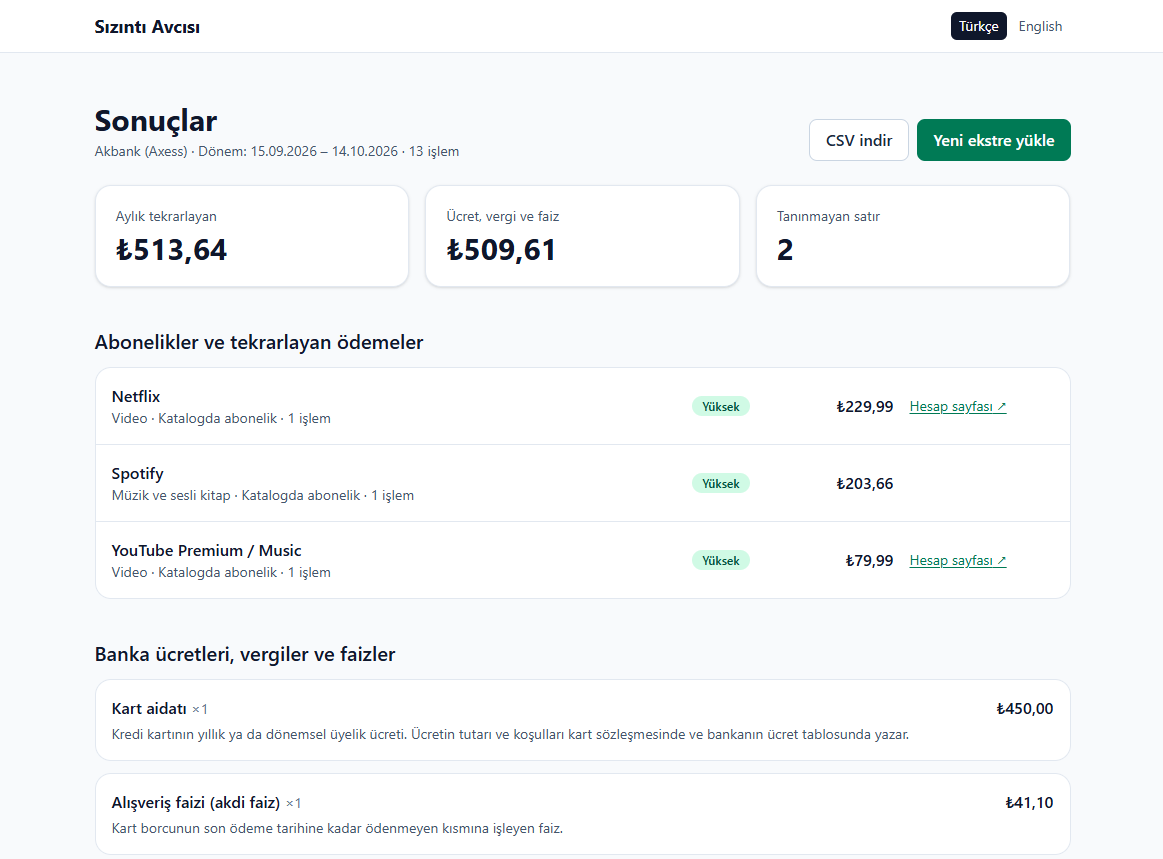
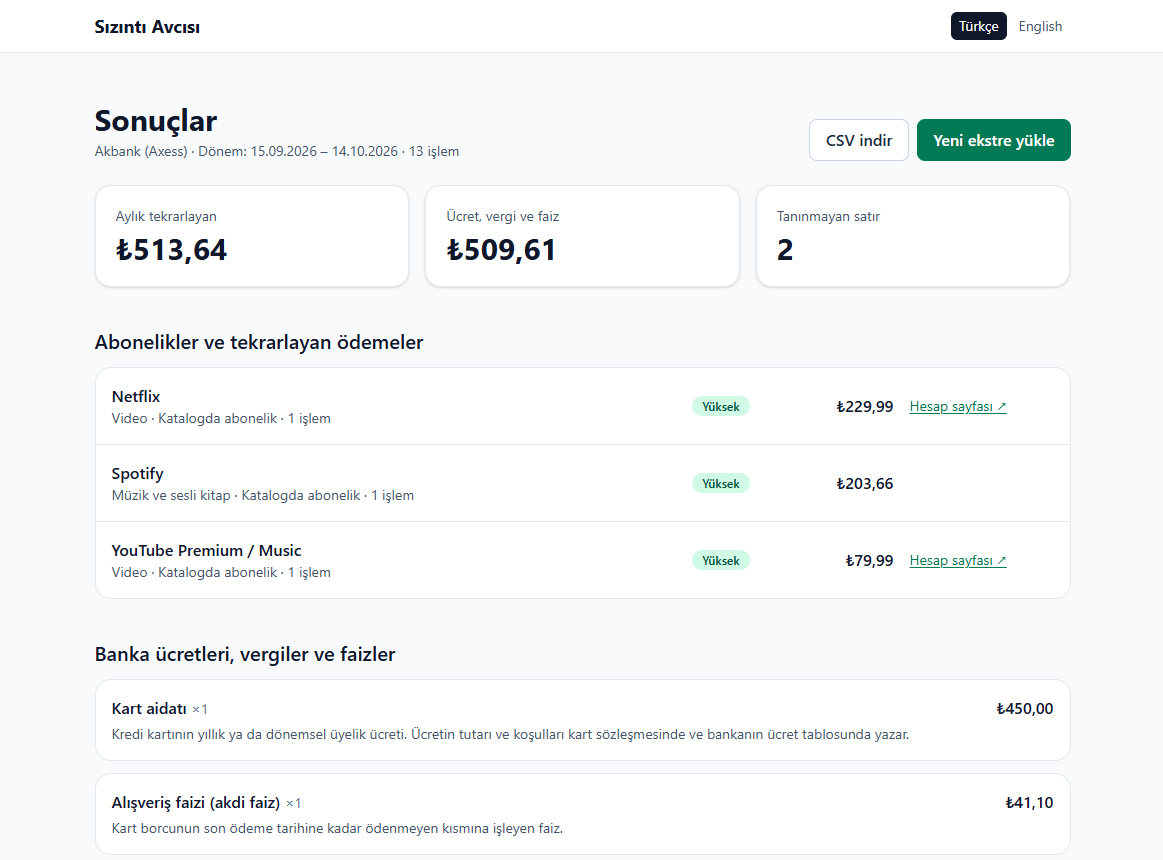
fix: mobilde tutarlar sağa hizalı, abonelikte tutar ismin yanında (#17)
Mobil sonuç ekranında abonelik satırının tutarı ayrı satıra düşüp
ortada duruyordu. Mobilde tutar artık ismin yanında, sağda; güven
rozeti ve iptal bağlantısı alt satıra iniyor. Masaüstü düzeni aynı.
Ücret, taksit ve işlem listelerinde de tutar sarıldığında sağda kalır.

Ekran görüntüleri (sentetik veri) yenilendi. ILERLEME.md'ye
hashVersion 1'de kalma kararı not edildi.

Claude-Session: https://claude.ai/code/session_01AefwdaLJi6Rwcb7F36nxkN

diff --git a/src/ui/Results.tsx b/src/ui/Results.tsx
@@ -45,23 +45,26 @@ function ChargeList({ charges, m }: { charges: RecurringCharge[]; m: Messages })
     <ul className="divide-y divide-slate-200 overflow-hidden rounded-2xl border border-slate-200 bg-white">
       {charges.map((c) => (
         <li key={`${c.merchant?.id ?? c.label}`} className="flex flex-wrap items-center gap-x-4 gap-y-2 p-4">
-          <div className="min-w-0 flex-1 basis-56">
+          <div className="min-w-0 flex-1 basis-40 sm:basis-56">
             <p className="font-medium text-slate-900">{c.label}</p>
             <p className="text-sm text-slate-600">
               {m.category[c.merchant?.category ?? "unknown"]} · {m.reason[c.reason]} ·{" "}
               {format(s.count, { count: c.occurrences.length })}
             </p>
           </div>
-          <span className={`rounded-full px-2.5 py-0.5 text-xs font-medium ${CONFIDENCE_STYLE[c.confidence]}`}>
+          {/* Mobilde satır kırıcı: rozet ve iptal bağlantısı ismin ve tutarın altına iner. */}
+          <span aria-hidden="true" className="order-1 -my-1 h-0 basis-full sm:hidden" />
+          <span className={`order-2 rounded-full px-2.5 py-0.5 text-xs font-medium sm:order-none ${CONFIDENCE_STYLE[c.confidence]}`}>
             <span className="sr-only">{s.confidence}: </span>
             {m.confidence[c.confidence]}
           </span>
-          <p className="w-32 text-right font-semibold tabular-nums text-slate-900">
+          <p className="ml-auto whitespace-nowrap text-right font-semibold tabular-nums text-slate-900 sm:w-32">
             <span className="sr-only">{s.monthly}: </span>
             {formatMoney(c.monthlyEstimate, m)}
           </p>
-          {/* Sabit genişlik: iptal bağlantısı olmayan satırlarda da rozet ve tutar hizalı kalır. */}
-          <div className="w-full text-sm sm:w-36">
+          {/* Masaüstünde sabit genişlik: iptal bağlantısı olmayan satırlarda da rozet ve tutar hizalı kalır.
+              Mobilde rozet ve bağlantı alt satıra iner, tutar ismin yanında sağda kalır. */}
+          <div className="order-3 min-w-0 flex-1 text-sm sm:order-none sm:w-36 sm:flex-none">
             {c.merchant?.cancelUrl ? (
               <a
                 href={c.merchant.cancelUrl}
@@ -88,7 +91,7 @@ function TransactionList({ items, m }: { items: Transaction[]; m: Messages }) {
         <li key={i} className="flex flex-wrap items-baseline gap-x-4 gap-y-1 px-4 py-2.5">
           <span className="w-24 shrink-0 tabular-nums text-slate-500">{formatDate(t.date, m)}</span>
           <span className="min-w-0 flex-1 break-words text-slate-800">{t.rawDescription}</span>
-          <span className="tabular-nums font-medium text-slate-900">{formatMoney(t.amount, m)}</span>
+          <span className="ml-auto whitespace-nowrap text-right tabular-nums font-medium text-slate-900">{formatMoney(t.amount, m)}</span>
         </li>
       ))}
     </ul>
@@ -165,10 +168,10 @@ export function Results({ report, onReset, onDownloadCsv }: Props) {
             {a.fees.map((g) => (
               <li key={g.rule?.id ?? g.kind} className="rounded-2xl border border-slate-200 bg-white p-4">
                 <div className="flex flex-wrap items-baseline justify-between gap-2">
-                  <p className="font-medium text-slate-900">
+                  <p className="min-w-0 flex-1 font-medium text-slate-900">
                     {feeLabel(g, m)} <span className="text-sm font-normal text-slate-500">×{g.transactions.length}</span>
                   </p>
-                  <p className="font-semibold tabular-nums text-slate-900">{formatMoney(g.total, m)}</p>
+                  <p className="ml-auto whitespace-nowrap text-right font-semibold tabular-nums text-slate-900">{formatMoney(g.total, m)}</p>
                 </div>
                 {g.rule && <p className="mt-1 text-sm text-slate-600">{g.rule.explanation}</p>}
               </li>
@@ -184,7 +187,7 @@ export function Results({ report, onReset, onDownloadCsv }: Props) {
           <ul className="divide-y divide-slate-200 overflow-hidden rounded-2xl border border-slate-200 bg-white">
             {a.installments.map((it, i) => (
               <li key={i} className="flex flex-wrap items-baseline justify-between gap-2 p-4">
-                <div className="min-w-0">
+                <div className="min-w-0 flex-1">
                   <p className="font-medium text-slate-900">{it.transaction.normalized}</p>
                   <p className="text-sm text-slate-600">
                     {format(r.installments.progress, {
@@ -198,7 +201,7 @@ export function Results({ report, onReset, onDownloadCsv }: Props) {
                     })}
                   </p>
                 </div>
-                <p className="font-semibold tabular-nums text-slate-900">{formatMoney(it.transaction.amount, m)}</p>
+                <p className="ml-auto whitespace-nowrap text-right font-semibold tabular-nums text-slate-900">{formatMoney(it.transaction.amount, m)}</p>
               </li>
             ))}
           </ul>

diff --git a/docs/ILERLEME.md b/docs/ILERLEME.md
@@ -38,6 +38,10 @@
 9. ~~Lisansı seç (öneri: MIT).~~ ✅ MIT seçildi, `LICENSE` eklendi.
 10. ~~Sentetik veriyle ekran görüntüsü al (README'lerdeki yer tutucu için).~~ ✅ `docs/images/` (masaüstü karşılama, masaüstü ve mobil sonuç).
 
+## Kararlar
+
+- Glif hash'i `hashVersion: 1` olarak kalıyor. Font bazında normalize denendi, 431→~428, değmez. Gerekirse v1→v2 etiket taşıma mümkün (aynı PDF'ten iki hash de hesaplanabilir).
+
 ## Açık sorular
 
 - Sentetik fixture'ın sütun düzeni ve satır tipleri (özellikle "Kalan Borç / Taksit" sütununun içeriği ve yabancı para ekinin yazılışı) gerçek ekstreyi görmeden tahminle yazıldı. Glif tablosu bitince `akbank-check` sayıları buna göre ayrıştırıcıda düzeltme gerekip gerekmediğini gösterecek.
